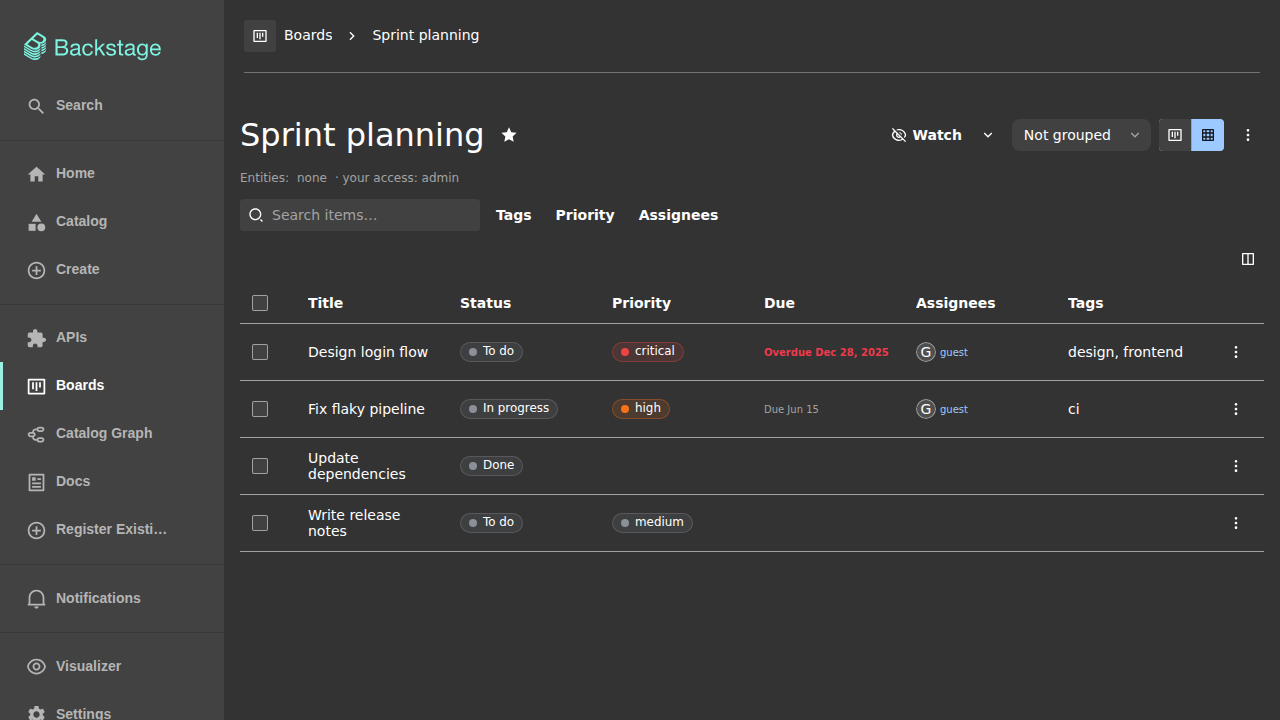
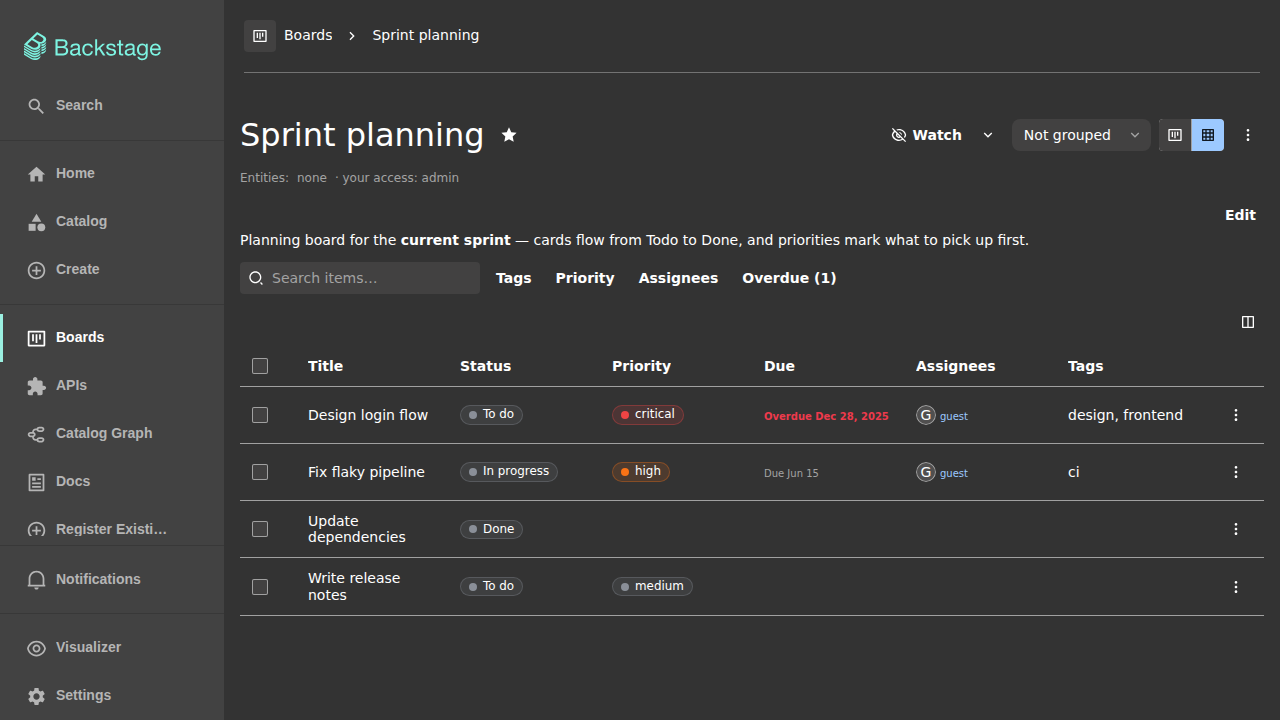
Seed a showcase board description and refresh table screenshots
The description row under the board header shifts the table shot past
the comparison tolerance; the showcase board now carries a description
so the docs screenshots show the feature, and the two board-table
baselines are regenerated.

Claude-Session: https://claude.ai/code/session_01H5mrTVmK2C8y8n561mQrSc

diff --git a/plugins/boards/e2e-tests/screenshots.test.ts b/plugins/boards/e2e-tests/screenshots.test.ts
@@ -113,6 +113,14 @@ async function seedShowcaseBoard(): Promise<string> {
       })
     ).json();
     await api.put(`/api/boards/boards/${board.id}/favorite`, { headers });
+    await api.put(`/api/boards/boards/${board.id}/description`, {
+      headers,
+      data: {
+        text:
+          'Planning board for the **current sprint** — cards flow from ' +
+          'Todo to Done, and priorities mark what to pick up first.',
+      },
+    });
 
     const [todo, inProgress, done]: Column[] = board.columns;
     const priorities: Priority[] = board.priorities;
